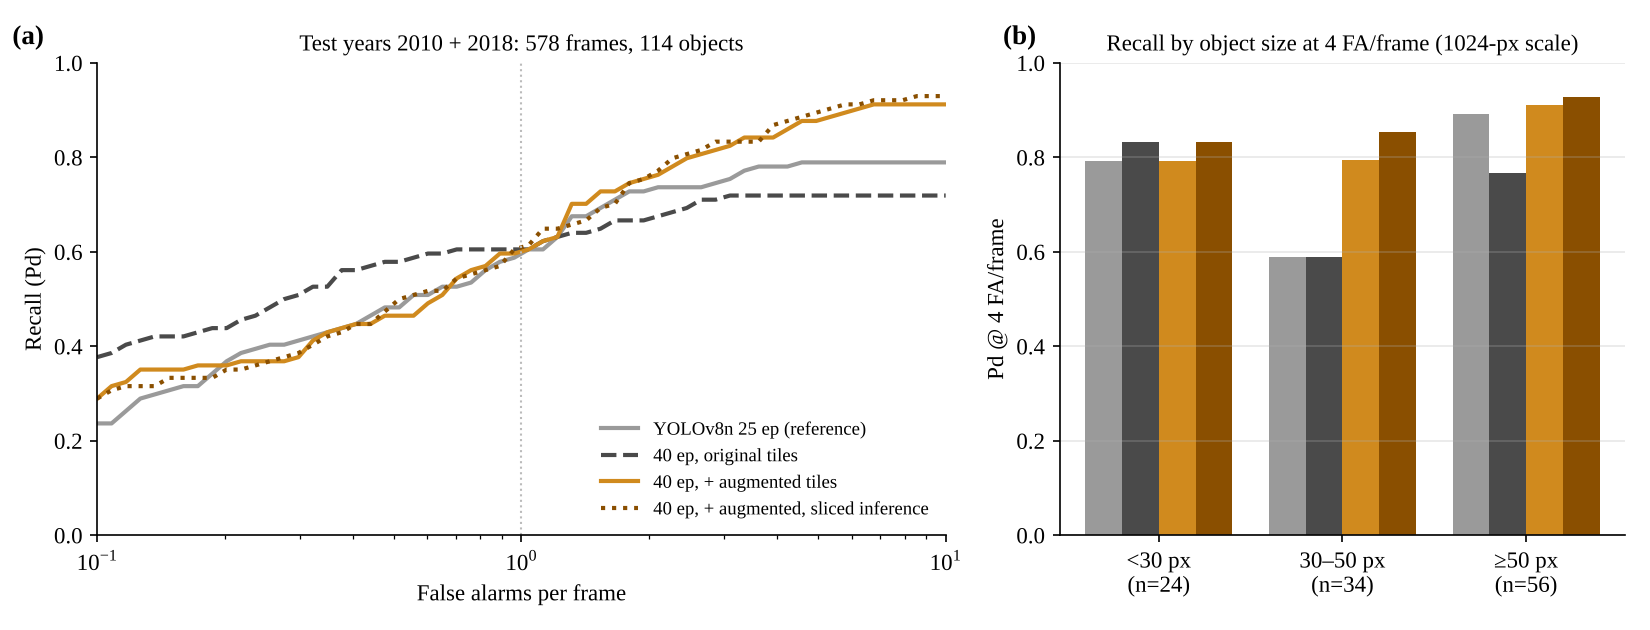
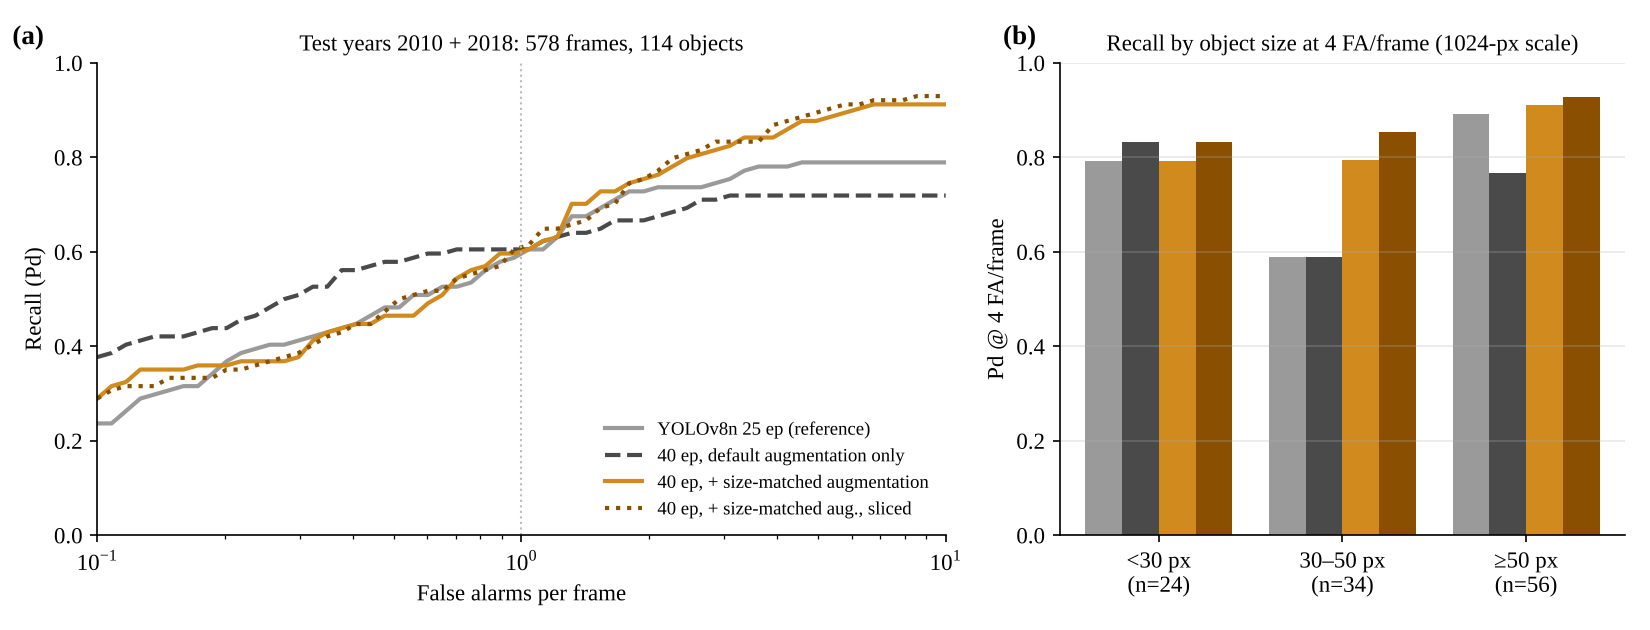
README: augmentation examples, architecture/latency comparison, corrected headline; clearer control label

Changed region(s): [[0.3709, 0.6635, 0.5564, 0.8444]]

diff --git a/src/fig_aug_examples.py b/src/fig_aug_examples.py
@@ -1,0 +1,109 @@
+"""Examples of the size-matched augmentation (prep_aug.py) on real training frames.
+
+  python fig_aug_examples.py   ->  docs/figures/augmentation_examples.png
+Same operations as prep_aug.py, with fixed parameters so the figure is reproducible.
+"""
+import io
+import json
+import os
+
+import matplotlib.pyplot as plt
+import numpy as np
+from matplotlib.patches import Rectangle
+from PIL import Image, ImageFilter
+
+plt.rcParams.update({"font.family": "serif", "font.serif": ["Liberation Serif", "DejaVu Serif"], "font.size": 12})
+AMBER = "#e39a2a"
+SRC = tuple(os.environ.get("AUG_SRC", "2015,0059_2015.jpg,0").split(",")); SRC = (SRC[0], SRC[1], int(SRC[2]))   # training frame, object
+DST = tuple(os.environ.get("AUG_DST", "2021,0022_2021.jpg").split(","))                                     # object-free frame, other year
+S = json.load(open("screen.json"))
+REC = {(r["year"], r["file"]): r for r in S["records"]}
+T = 320
+Z = 160                                  # zoom window shown around the object (px of the 1024 frame scale)
+TARGET = 30                              # object size after scale-down (prep_aug draws 26-50 px)
+
+
+def frame(y, f):
+    im = Image.open(f"raw/{y}/{y}/{f}").convert("L")
+    return np.asarray(im.resize((1024, 1024), Image.BICUBIC) if im.size[0] != 1024 else im, np.float32)
+
+
+def nadir(a):
+    col = a.mean(0); c0, c1 = 307, 716
+    idx = np.where(col[c0:c1] < np.percentile(col, 15) + 5)[0] + c0
+    return int(idx.mean()) if len(idx) else c0 + int(np.argmin(col[c0:c1]))
+
+
+def crop(a, cx, cy, size=T):
+    x0 = int(np.clip(cx - size / 2, 0, a.shape[1] - size)); y0 = int(np.clip(cy - size / 2, 0, a.shape[0] - size))
+    return a[y0:y0 + size, x0:x0 + size], x0, y0
+
+
+def show(ax, img, box=None, title="", sub=""):
+    ax.imshow(np.clip(img, 0, 255), cmap="gray", vmin=0, vmax=255)
+    if box is not None:
+        x, y, w, h = box
+        ax.add_patch(Rectangle((x - w / 2 - 4, y - h / 2 - 4), w + 8, h + 8, fill=False, ec=AMBER, lw=1.8))
+    ax.set_xticks([]); ax.set_yticks([])
+    for s_ in ax.spines.values():
+        s_.set_color("#999999")
+    ax.set_title(title, fontsize=13, fontweight="bold", pad=6)
+    if sub:
+        ax.text(0.5, -0.06, sub, transform=ax.transAxes, ha="center", va="top", fontsize=11.5, color="#333333")
+
+
+a = frame(*SRC[:2])
+c, x, y, w, h = REC[SRC[:2]]["labels"][SRC[2]]
+x, y, w, h = x * 1024, y * 1024, w * 1024, h * 1024
+side = max(w, h)
+
+fig = plt.figure(figsize=(15, 5.6))
+gs = fig.add_gridspec(2, 5, width_ratios=[1, 1, 1, 0.5, 0.5], wspace=0.08, hspace=0.12)
+
+# (a) original tile
+t, x0, y0 = crop(a, x, y, Z)
+show(fig.add_subplot(gs[:, 0]), t, (x - x0, y - y0, w, h), "(a) Original", f"{SRC[0]} · object {side:.0f} px")
+
+# (b) scale-down to ~38 px
+s = TARGET / side
+n = int(round(1024 * s))
+a2 = np.asarray(Image.fromarray(a.astype(np.uint8)).resize((n, n), Image.BICUBIC), np.float32)
+t2, x0, y0 = crop(a2, x * s, y * s, Z)
+show(fig.add_subplot(gs[:, 1]), t2, (x * s - x0, y * s - y0, w * s, h * s), "(b) Scale-down", f"same frame × {s:.2f} → {side * s:.0f} px")
+
+# (c) shadow-aware copy-paste onto another year's seabed, same side of nadir
+nd = nadir(a); out = 1 if x > nd else -1
+xa, xb = sorted([int(x - out * 1.0 * w), int(x + out * 3.0 * w)]); ya, yb = int(y - 1.2 * h), int(y + 1.2 * h)
+xa, xb, ya, yb = max(0, xa), min(1024, xb), max(0, ya), min(1024, yb)
+patch = a[ya:yb, xa:xb]
+ox, oy = x - xa, y - ya
+ph, pw = patch.shape; nh, nw = int(ph * s), int(pw * s)
+p = np.asarray(Image.fromarray(patch.astype(np.uint8)).resize((nw, nh), Image.BICUBIC), np.float32)
+d = frame(*DST).copy(); ndd = nadir(d)
+cx, cy = ndd + out * 0.25 * 1024, 560
+px, py = int(cx - ox * s), int(cy - oy * s)
+dst = d[py:py + nh, px:px + nw]
+ring = np.concatenate([p[:2].ravel(), p[-2:].ravel(), p[:, :2].ravel(), p[:, -2:].ravel()])
+ratio = np.clip((p + 1) / (np.median(ring) + 1), 0.05, 8.0)
+yy, xx = np.mgrid[0:nh, 0:nw].astype(np.float32)
+m = np.clip((1 - np.sqrt(((xx - (nw - 1) / 2) / (nw / 2)) ** 2 + ((yy - (nh - 1) / 2) / (nh / 2)) ** 2)) / 0.35, 0, 1)
+d[py:py + nh, px:px + nw] = dst * ratio ** m
+t3, x0, y0 = crop(d, cx, cy, Z)
+show(fig.add_subplot(gs[:, 2]), t3, (cx - x0, cy - y0, w * s, h * s), "(c) Shadow-aware copy-paste",
+     f"{SRC[0]} object + shadow → {DST[0]} seabed")
+
+# (d) photometric variants of tile (b)
+rng = np.random.default_rng(3)
+base = t2.astype(np.float32)
+speckle = base * rng.gamma(6, 1 / 6, base.shape)
+gamma = 255 * (np.clip(base, 0, 255) / 255) ** 1.35
+blur = np.asarray(Image.fromarray(base.astype(np.uint8)).filter(ImageFilter.GaussianBlur(1.1)), np.float32)
+buf = io.BytesIO(); Image.fromarray(base.astype(np.uint8)).save(buf, "JPEG", quality=35)
+jpeg = np.asarray(Image.open(buf).convert("L"), np.float32)
+for k, (img, lab) in enumerate([(speckle, "speckle"), (gamma, "gamma"), (blur, "blur"), (jpeg, "JPEG q35")]):
+    ax = fig.add_subplot(gs[k // 2, 3 + k % 2])
+    show(ax, img)
+    ax.text(0.5, -0.04, lab, transform=ax.transAxes, ha="center", va="top", fontsize=11.5, color="#333333")
+fig.text(0.855, 0.905, "(d) Photometric (on b)", ha="center", fontsize=13, fontweight="bold")
+
+fig.savefig(os.environ.get("AUG_OUT", "../docs/figures/augmentation_examples.png"), dpi=150, bbox_inches="tight", facecolor="white")

diff --git a/src/fig_b5.py b/src/fig_b5.py
@@ -10,9 +10,9 @@ exec(open("b5_eval.py").read().replace('if __name__ == "__main__":\n    main()',
 R = json.load(open("b5_eval.json"))
 FA = np.logspace(np.log10(0.1), np.log10(10), 60)
 RUNS = [("ref_full", "YOLOv8n 25 ep (reference)", "#9a9a9a", "-"),
-        ("n_base40last_full", "40 ep, original tiles", "#4a4a4a", "--"),
-        ("n_aug40last_full", "40 ep, + augmented tiles", "#d08a1e", "-"),
-        ("n_aug40last_sliced", "40 ep, + augmented, sliced inference", "#8a4f00", ":")]
+        ("n_base40last_full", "40 ep, default augmentation only", "#4a4a4a", "--"),
+        ("n_aug40last_full", "40 ep, + size-matched augmentation", "#d08a1e", "-"),
+        ("n_aug40last_sliced", "40 ep, + size-matched aug., sliced", "#8a4f00", ":")]
 plt.rcParams.update({"font.family": "serif", "font.serif": ["Liberation Serif", "DejaVu Serif"], "font.size": 11, "axes.spines.top": False, "axes.spines.right": False})
 fig, ax = plt.subplots(1, 2, figsize=(11, 4.2), gridspec_kw={"width_ratios": [1.5, 1]})
 for key, lab, col, ls in RUNS:

diff --git a/src/fig_b6.py b/src/fig_b6.py
@@ -37,7 +37,7 @@ for ax, dev, title in [(axes[0], "cpu", "CPU (Intel, 8 threads)"), (axes[1], "cu
     ax.grid(alpha=.3, which="both")
 axes[0].set_ylabel(f"Recall (Pd) @ {FA} false alarms / frame")
 axes[0].set_ylim(0.55, 1.0)
-h = [plt.Line2D([], [], marker="o", ls="", ms=9, mfc="white", mec=GREY, mew=2, label="original tiles"),
+h = [plt.Line2D([], [], marker="o", ls="", ms=9, mfc="white", mec=GREY, mew=2, label="default augmentation only"),
      plt.Line2D([], [], marker="o", ls="", ms=9, mfc=AMBER, mec=AMBER, mew=2, label="+ size-matched augmentation")]
 axes[0].legend(handles=h, frameon=False, loc="lower left", fontsize=10.5)
 for a_, t in zip(axes, "ab"):

diff --git a/README.md b/README.md
@@ -8,7 +8,7 @@
 - **방법**: 중복 장면을 점검한 뒤 공식 연도 분할(학습 2015 · 2017 · 2021 → 시험 2010 · 2018)로 평가했습니다. 탐지는 고전 정합필터와 YOLOv8n, 분류는 하이라이트–그림자 물리 특징과 DINOv2를 비교했습니다.
 - **결과**: 처음 보는 연도에서 YOLOv8n의 Pd는 78.1%(영상당 오경보 4건), 정합필터는 4.3%(1건)였습니다. 연도가 바뀔 때 분류 성능 하락은 물리 특징(0.04)이 DINOv2(0.15)보다 작았습니다.
 - **연계**: YOLO 후보를 물리 특징 분류기로 다시 판정하면 영상당 오경보 1건 기준 Pd가 59.6%에서 70.2%로 올랐습니다.
-- **개선**: 30–50 px 물체에 맞춘 증강으로 영상당 오경보 4건 기준 Pd가 78.1%에서 87.7%(분할 추론)로 올랐습니다.
+- **개선**: 30–50 px 물체에 맞춘 증강으로 영상당 오경보 8건 기준 Pd가 13%p 올랐습니다(YOLOv8n · YOLOv8s, 같은 조건 비교). 모델을 키워도(YOLOv8s · RT-DETR-l) Pd는 같고 CPU 추론 시간만 2.5–14배 늘었습니다.
 
 <p align="center"><img src="docs/figures/pipeline.png" width="100%" alt="Pipeline: data screening, year split, training with augmentation, sliced inference, optional cascade, test-year evaluation"></p>
 
@@ -103,20 +103,41 @@ Pd는 탐지 위치가 맞은 비율, Pdc는 위치와 종류(MILCO / NOMBO)가 
 - 축소(scale-down): 물체가 26–50 px가 되도록 영상을 줄이고, 연도별 반복 횟수로 균형을 맞춤
 - 붙여넣기(copy-paste): 물체와 그림자를 함께 잘라 다른 학습 장면의 같은 쪽(nadir 기준)에 합성
 - 스페클, 감마, 블러, JPEG 재압축
+- 뒤집기 · 밝기 · 크기 ±50% · 모자이크 등 기본 증강(Ultralytics)은 비교하는 모든 학습에 공통으로 적용
 
-| 시험 연도 Pd @ 영상당 오경보 | 0.5 | 1 | 4 | 8 | 30–50 px @ 4 |
+<p align="center"><img src="docs/figures/augmentation_examples.png" width="100%" alt="Augmentation examples: original object, scale-down, shadow-aware copy-paste onto another year, photometric variants"></p>
+<p align="center"><sub>(a) 원본 · (b) 축소 · (c) 다른 연도 해저면에 그림자째 합성 · (d) 광도 증강 (물체 주변 160 px 확대)</sub></p>
+
+| 시험 연도 Pd @ 영상당 오경보 (YOLOv8n, CPU) | 0.5 | 1 | 4 | 8 | 30–50 px @ 4 |
 |---|---|---|---|---|---|
-| YOLOv8n (기존, 25 epoch) | 48.2% | 59.6% | 78.1% | 78.9% | 58.8% |
-| 원본 타일, 40 epoch | 57.9% | 60.5% | 71.9% | 71.9% | 58.8% |
-| 증강 타일, 40 epoch | 46.5% | 60.5% | 84.2% | 91.2% | 79.4% |
-| 증강 타일 + 분할 추론 | 50.0% | 60.5% | 87.7% | 93.0% | 85.3% |
+| 기존 (25 epoch) | 48.2% | 59.6% | 78.1% | 78.9% | 58.8% |
+| 기본 증강만, 40 epoch | 57.9% | 60.5% | 71.9% | 71.9% | 58.8% |
+| + 크기 맞춤 증강, 40 epoch | 46.5% | 60.5% | 84.2% | 91.2% | 79.4% |
+| + 크기 맞춤 증강 + 분할 추론 | 50.0% | 60.5% | 87.7% | 93.0% | 85.3% |
 
-- 같은 epoch의 원본 타일 대비 Pd가 영상당 오경보 4건에서 +12%p(95% CI 3–22%p), 8건에서 +19%p(11–28%p) 높았습니다. 오경보 0.5건 이하에서는 약 11%p 낮아졌습니다.
+- 같은 epoch의 기본 증강만 대비 Pd가 영상당 오경보 4건에서 +12%p(95% CI 3–22%p), 8건에서 +19%p(11–28%p) 높았습니다. 오경보 0.5건 이하에서는 약 11%p 낮아졌습니다.
+- 같은 설정을 GPU에서 60 epoch로 다시 학습하면 분할 추론 Pd는 78.9%(4건) · 86.8%(8건)였습니다. 실행 간 차이가 약 9%p라 87.7%는 높게 나온 쪽입니다.
 - 검증 장면에서 Pd 91%로 정한 임계값이 시험 연도에서 Pd 84%(기존 57%)였습니다. 연도가 바뀔 때 운영점 이동이 줄었습니다.
 - 증강 탐지기에는 재판정이 효과가 없었습니다(오경보 13% 제거, 맞는 탐지 5% 손실).
 - 증강 크기 범위는 학습 연도(2017 · 2021) 분포로 정했지만, 이 방향은 시험 연도 진단을 보고 잡았습니다.
 - 검증 장면(26장)이 작아 epoch 선택이 불안정하므로 마지막 epoch 가중치로 평가했습니다.
 - 결과 수치: [`src/b5_eval.json`](src/b5_eval.json), [`src/b5_cascade_aug.json`](src/b5_cascade_aug.json) · 가중치: [`src/weights/yolov8n_aug40.pt`](src/weights/yolov8n_aug40.pt) · YOLOv8s · RT-DETR 비교(GPU): [`colab/compare_detectors.ipynb`](colab/compare_detectors.ipynb)
+
+### 구조 비교 (GPU)
+
+같은 타일 · 설정 · 60 epoch로 YOLOv8n · YOLOv8s · RT-DETR-l을 기본 증강만 / + 크기 맞춤 증강으로 학습하고, 영상 1장당 추론 시간을 쟀습니다(RTX 3070 Ti PC).
+
+<p align="center"><img src="docs/figures/detector_tradeoff.png" width="100%" alt="Recall at 8 false alarms per frame versus per-frame latency on CPU and GPU"></p>
+
+| + 크기 맞춤 증강, 분할 추론 | 파라미터 | Pd @ 4 | Pd @ 8 | CPU (ms) | GPU (ms) |
+|---|---|---|---|---|---|
+| YOLOv8n | 3.1 M | 78.9% | 86.8% | 132 | 20 |
+| YOLOv8s | 11.1 M | 78.9% | 85.1% | 325 | 29 |
+| RT-DETR-l | 32.8 M | 73.7% | 78.9% | 1,816 | 97 |
+
+- 크기 맞춤 증강의 효과(오경보 8건): YOLOv8n +13%p [5, 22], YOLOv8s +13%p [7, 20], RT-DETR-l +6%p (0 포함)
+- RT-DETR-l은 320 px 타일로 학습해 1024 px 전체 화면 추론에서 Pd가 0.30 이하로 떨어집니다(분할 추론에서 회복).
+- 실행 환경 · 학습 시간 · 학습 기록 · 지연 시간 원자료: [`src/gpu_runs/`](src/gpu_runs/)
 
 <details>
 <summary>시험 연도 FROC · 크기별 Pd</summary>
